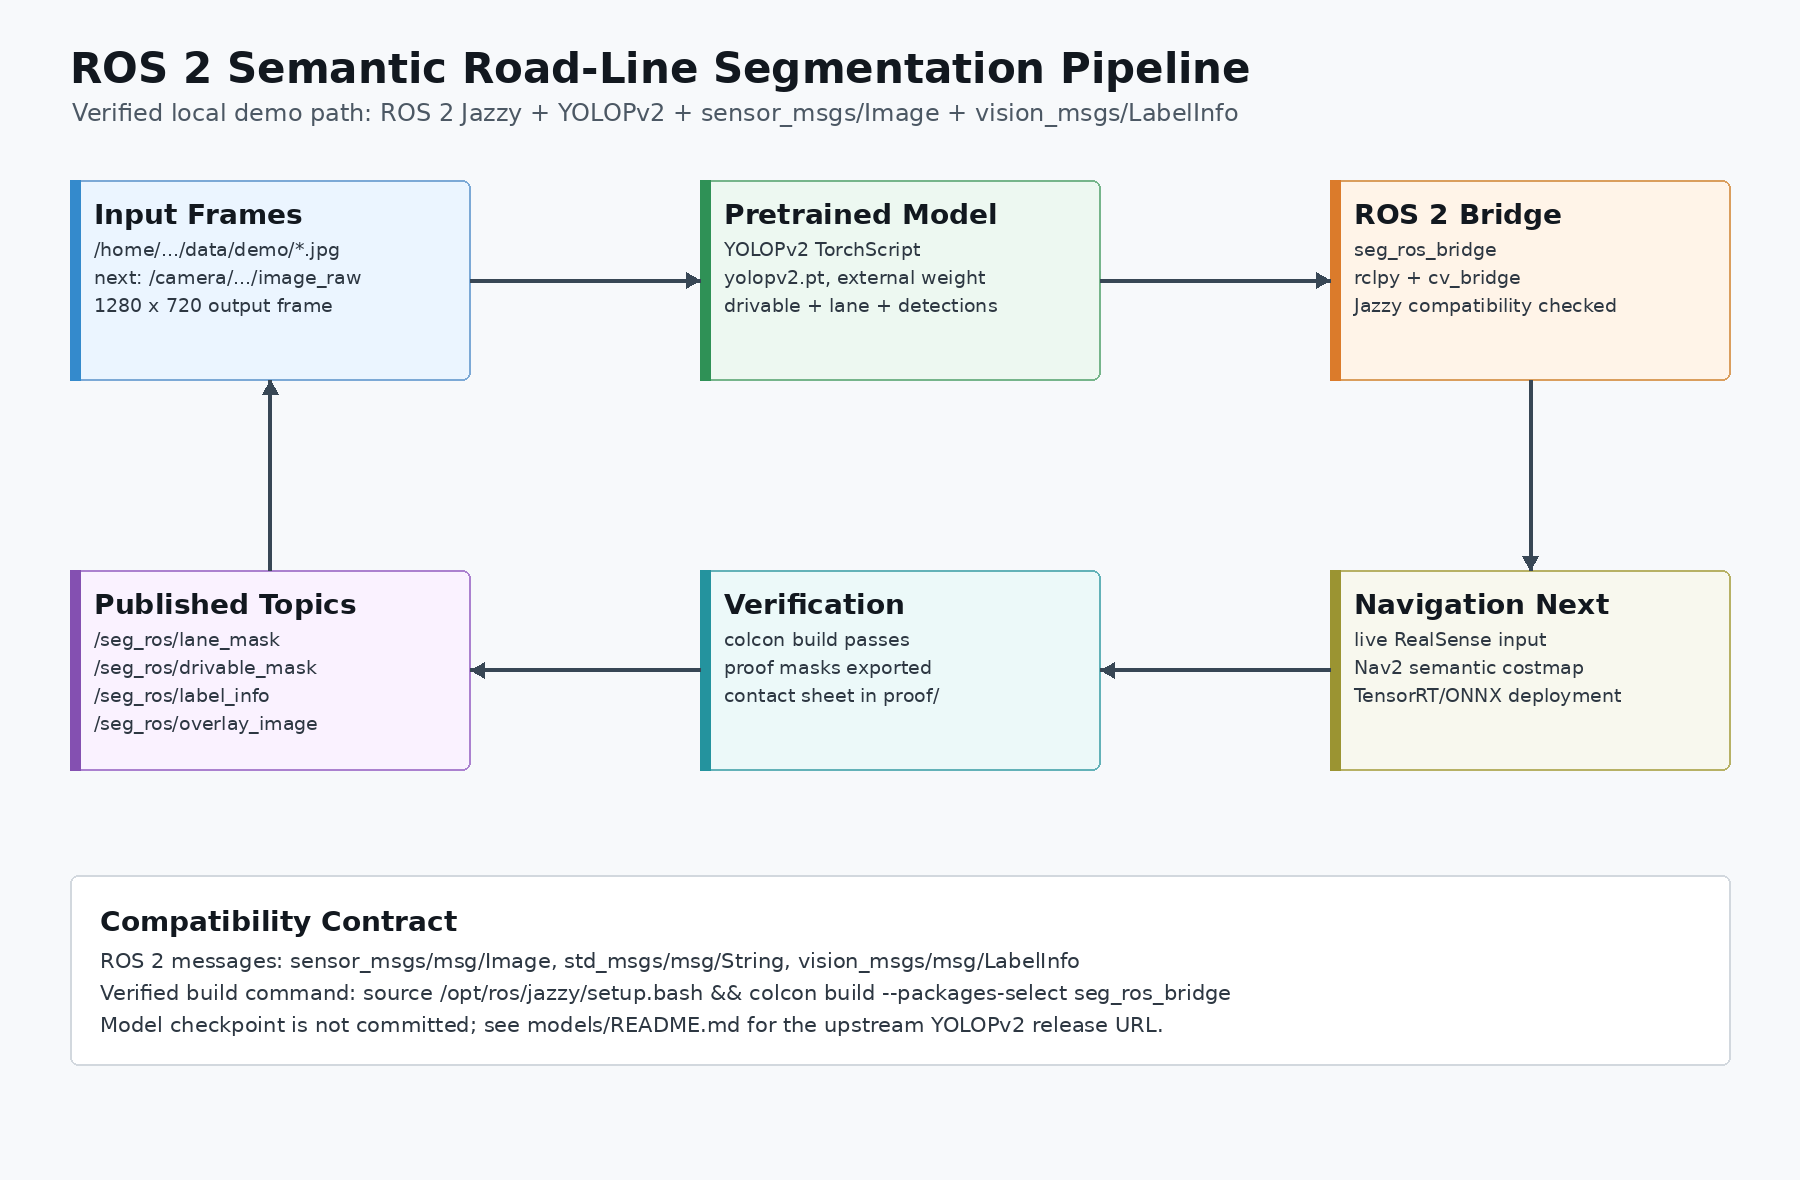
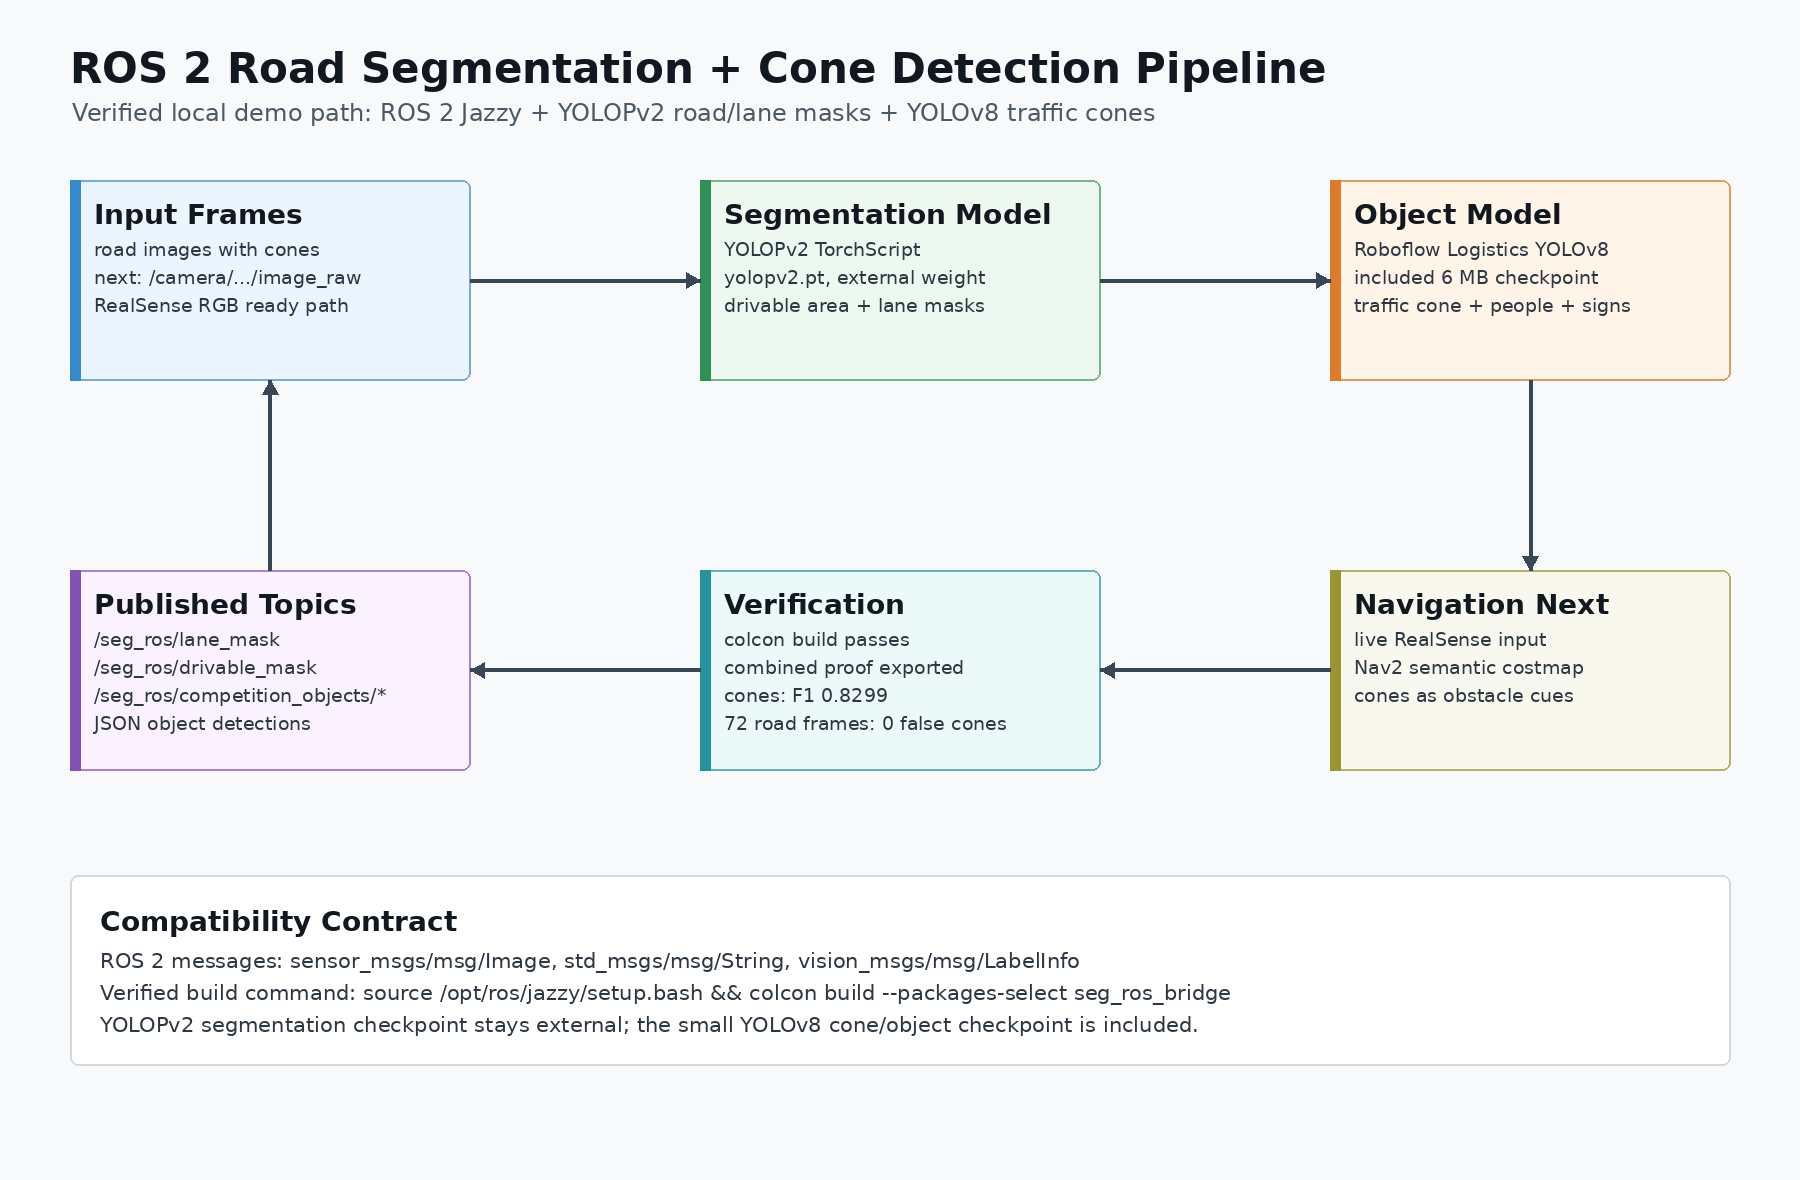
Make combined road cone proof primary

diff --git a/scripts/generate_pipeline_diagram.py b/scripts/generate_pipeline_diagram.py
@@ -49,10 +49,10 @@ def main():
     img = Image.new('RGB', (width, height), (247, 249, 251))
     draw = ImageDraw.Draw(img)
 
-    draw.text((70, 44), 'ROS 2 Semantic Road-Line Segmentation Pipeline',
+    draw.text((70, 44), 'ROS 2 Road Segmentation + Cone Detection Pipeline',
               fill=(18, 24, 31), font=font(42, True))
     draw.text((72, 98),
-              'Verified local demo path: ROS 2 Jazzy + YOLOPv2 + sensor_msgs/Image + vision_msgs/LabelInfo',
+              'Verified local demo path: ROS 2 Jazzy + YOLOPv2 road/lane masks + YOLOv8 traffic cones',
               fill=(76, 88, 100), font=font(24))
 
     boxes = {
@@ -67,25 +67,25 @@ def main():
     rounded_box(draw, boxes['input'], (235, 245, 255), (124, 169, 214),
                 'Input Frames',
                 [
-                    '/home/.../data/demo/*.jpg',
+                    'road images with cones',
                     'next: /camera/.../image_raw',
-                    '1280 x 720 output frame',
+                    'RealSense RGB ready path',
                 ], (52, 138, 204))
 
     rounded_box(draw, boxes['model'], (237, 248, 241), (118, 181, 139),
-                'Pretrained Model',
+                'Segmentation Model',
                 [
                     'YOLOPv2 TorchScript',
                     'yolopv2.pt, external weight',
-                    'drivable + lane + detections',
+                    'drivable area + lane masks',
                 ], (47, 145, 86))
 
     rounded_box(draw, boxes['topics'], (255, 244, 232), (218, 158, 93),
-                'ROS 2 Bridge',
+                'Object Model',
                 [
-                    'seg_ros_bridge',
-                    'rclpy + cv_bridge',
-                    'Jazzy compatibility checked',
+                    'Roboflow Logistics YOLOv8',
+                    'included 6 MB checkpoint',
+                    'traffic cone + people + signs',
                 ], (219, 123, 43))
 
     rounded_box(draw, boxes['proof'], (250, 242, 255), (171, 129, 207),
@@ -93,16 +93,17 @@ def main():
                 [
                     '/seg_ros/lane_mask',
                     '/seg_ros/drivable_mask',
-                    '/seg_ros/label_info',
-                    '/seg_ros/overlay_image',
+                    '/seg_ros/competition_objects/*',
+                    'JSON object detections',
                 ], (132, 80, 177))
 
     rounded_box(draw, boxes['nav'], (236, 249, 249), (99, 178, 184),
                 'Verification',
                 [
                     'colcon build passes',
-                    'proof masks exported',
-                    'contact sheet in proof/',
+                    'combined proof exported',
+                    'cones: F1 0.8299',
+                    '72 road frames: 0 false cones',
                 ], (36, 147, 158))
 
     rounded_box(draw, boxes['future'], (248, 248, 238), (183, 177, 101),
@@ -110,7 +111,7 @@ def main():
                 [
                     'live RealSense input',
                     'Nav2 semantic costmap',
-                    'TensorRT/ONNX deployment',
+                    'cones as obstacle cues',
                 ], (155, 148, 50))
 
     arrow(draw, (470, 280), (700, 280))
@@ -126,7 +127,7 @@ def main():
     compatibility = [
         'ROS 2 messages: sensor_msgs/msg/Image, std_msgs/msg/String, vision_msgs/msg/LabelInfo',
         'Verified build command: source /opt/ros/jazzy/setup.bash && colcon build --packages-select seg_ros_bridge',
-        'Model checkpoint is not committed; see models/README.md for the upstream YOLOPv2 release URL.',
+        'YOLOPv2 segmentation checkpoint stays external; the small YOLOv8 cone/object checkpoint is included.',
     ]
     y = 948
     for line in compatibility:

diff --git a/scripts/generate_combined_semantic_cone_proof.py b/scripts/generate_combined_semantic_cone_proof.py
@@ -63,17 +63,24 @@ def draw_cones(image, result):
     return cones
 
 
-def make_contact_sheet(images, output_path):
-    if not images:
+def make_contact_sheet(rows, output_path):
+    if not rows:
         return
-    thumbs = [cv2.resize(img, (360, 270), interpolation=cv2.INTER_AREA) for img in images]
-    rows = []
-    for idx in range(0, len(thumbs), 3):
-        row = thumbs[idx:idx + 3]
-        while len(row) < 3:
-            row.append(np.zeros_like(thumbs[0]))
-        rows.append(np.hstack(row))
-    cv2.imwrite(str(output_path), np.vstack(rows))
+    rendered = []
+    for original, overlay, drivable, lane in rows:
+        w, h = 320, 240
+        original = cv2.resize(original, (w, h), interpolation=cv2.INTER_AREA)
+        overlay = cv2.resize(overlay, (w, h), interpolation=cv2.INTER_AREA)
+        drivable = cv2.cvtColor(
+            cv2.resize(drivable, (w, h), interpolation=cv2.INTER_NEAREST),
+            cv2.COLOR_GRAY2BGR,
+        )
+        lane = cv2.cvtColor(
+            cv2.resize(lane, (w, h), interpolation=cv2.INTER_NEAREST),
+            cv2.COLOR_GRAY2BGR,
+        )
+        rendered.append(np.hstack([original, overlay, drivable, lane]))
+    cv2.imwrite(str(output_path), np.vstack(rendered))
 
 
 def add_badge(image, text):
@@ -113,7 +120,7 @@ def main():
     if not images:
         raise RuntimeError(f'No images found in {args.input_dir}')
 
-    combined_images = []
+    contact_rows = []
     main_image = None
     with torch.no_grad():
         for image_path in images:
@@ -134,6 +141,16 @@ def main():
             _pred, seg, ll = seg_model(tensor)
             da_mask = driving_area_mask(seg)
             ll_mask = lane_line_mask(ll)
+            drivable_mask = cv2.resize(
+                (da_mask * 255).astype(np.uint8),
+                original_size,
+                interpolation=cv2.INTER_NEAREST,
+            )
+            lane_mask = cv2.resize(
+                (ll_mask * 255).astype(np.uint8),
+                original_size,
+                interpolation=cv2.INTER_NEAREST,
+            )
 
             semantic_overlay = seg_input.copy()
             show_seg_result(semantic_overlay, (da_mask, ll_mask), is_demo=True)
@@ -153,16 +170,18 @@ def main():
 
             output_path = output_dir / f'{image_path.stem}_semantic_cones.jpg'
             cv2.imwrite(str(output_path), semantic_overlay)
-            combined_images.append(semantic_overlay)
+            cv2.imwrite(str(output_dir / f'{image_path.stem}_drivable_mask.png'), drivable_mask)
+            cv2.imwrite(str(output_dir / f'{image_path.stem}_lane_mask.png'), lane_mask)
+            contact_rows.append((frame, semantic_overlay, drivable_mask, lane_mask))
             if image_path.stem == args.main_image_stem:
                 main_image = semantic_overlay
 
-    if combined_images:
+    if contact_rows:
         cv2.imwrite(
             str(output_dir / 'semantic_segmentation_plus_cones_road.jpg'),
-            main_image if main_image is not None else combined_images[0],
+            main_image if main_image is not None else contact_rows[0][1],
         )
-        make_contact_sheet(combined_images, output_dir / 'semantic_segmentation_plus_cones_contact_sheet.jpg')
+        make_contact_sheet(contact_rows, output_dir / 'semantic_segmentation_plus_cones_contact_sheet.jpg')
     print(f'Wrote combined proof images to {output_dir}')
 
 

diff --git a/README.md b/README.md
@@ -1,8 +1,8 @@
 # Competiton Semantic Segmentation
 
-ROS 2 road-line and drivable-area semantic segmentation pipeline for the AVROS competition stack.
+ROS 2 road-line, drivable-area, and traffic-cone perception pipeline for the AVROS competition stack.
 
-This repository contains a working ROS 2 bridge around a pretrained YOLOPv2 driving-perception model. The current implementation publishes lane-line masks, drivable-area masks, overlay images, a lane-confidence image, label metadata, and detection JSON as ROS 2 topics.
+This repository contains a working ROS 2 bridge around a pretrained YOLOPv2 driving-perception model and a YOLOv8 traffic-cone/object detector. The current branch publishes lane-line masks, drivable-area masks, overlay images, traffic cone detections, and JSON detection topics.
 
 > Repository name intentionally follows the requested spelling: `Competiton_Semantic_Segmentation`.
 
@@ -10,15 +10,19 @@ This repository contains a working ROS 2 bridge around a pretrained YOLOPv2 driv
 
 ![ROS 2 semantic segmentation pipeline](docs/ros2_semantic_segmentation_pipeline.png)
 
-Proof contact sheet from the current pretrained model:
+Combined road segmentation and cone detection proof from the current pretrained models:
+
+![Road-line segmentation and cone detection proof](proof/combined/semantic_segmentation_plus_cones_contact_sheet.jpg)
+
+Original road/lane segmentation proof:
 
 ![Road-line segmentation proof](proof/contact_sheet.jpg)
 
-Competition object detection branch proof:
+Competition object detection pipeline:
 
 ![Competition object detection pipeline](docs/competition_objects_pipeline.png)
 
-Actual road traffic cone proof:
+Traffic cone detection proof:
 
 ![Actual road traffic cone detections](proof/traffic_cones/actual_road_cone_contact_sheet.jpg)
 
@@ -87,6 +91,12 @@ Current label map:
 | 1 | `drivable_area` |
 | 2 | `lane_marking` |
 
+The combined proof sheet uses the same layout as the original segmentation proof:
+
+```text
+original road frame | road/lane + cone overlay | drivable mask | lane mask
+```
+
 ## Competition Object Detection
 
 This branch adds a ROS 2 object detector for competition-relevant objects using an included Roboflow Logistics YOLOv8 checkpoint:
@@ -124,11 +134,11 @@ Published topics:
 Traffic cone proof:
 
 ```text
+proof/combined/semantic_segmentation_plus_cones_contact_sheet.jpg
+proof/combined/semantic_segmentation_plus_cones_road.jpg
 proof/traffic_cones/actual_road_cone_contact_sheet.jpg
 proof/traffic_cones/traffic_cone_eval_contact_sheet.jpg
 proof/traffic_cones/traffic_cone_eval.json
-proof/combined/semantic_segmentation_plus_cones_road.jpg
-proof/combined/semantic_segmentation_plus_cones_contact_sheet.jpg
 ```
 
 Traffic cone evaluation summary:
@@ -311,9 +321,10 @@ lane1.jpg: lane_pixels=15326 drivable_pixels=73835
 
 ## ROS 2 Integration Notes
 
-- The current node is a reproducible image-folder publisher for proving the pretrained semantic segmentation pipeline.
+- The current nodes are reproducible image-folder publishers for proving the pretrained road segmentation and cone/object detection pipeline.
 - The next runtime node should subscribe to `/camera/camera/color/image_raw` from the RealSense stack.
 - Lane markings should be treated as navigation cues, not physical obstacles.
+- Traffic cones and people should be treated as obstacle/safety cues.
 - Drivable-area masks can later feed a Nav2 semantic costmap layer.
 - Geometric obstacle layers should remain enabled for safety.
 

diff --git a/docs/traffic_cones/README.md b/docs/traffic_cones/README.md
@@ -63,6 +63,12 @@ proof/combined/semantic_segmentation_plus_cones_road.jpg
 proof/combined/semantic_segmentation_plus_cones_contact_sheet.jpg
 ```
 
+The combined contact sheet follows the same format as the original semantic segmentation proof:
+
+```text
+original road frame | road/lane + cone overlay | drivable mask | lane mask
+```
+
 Annotation-based evaluation contact sheet:
 
 ```text
